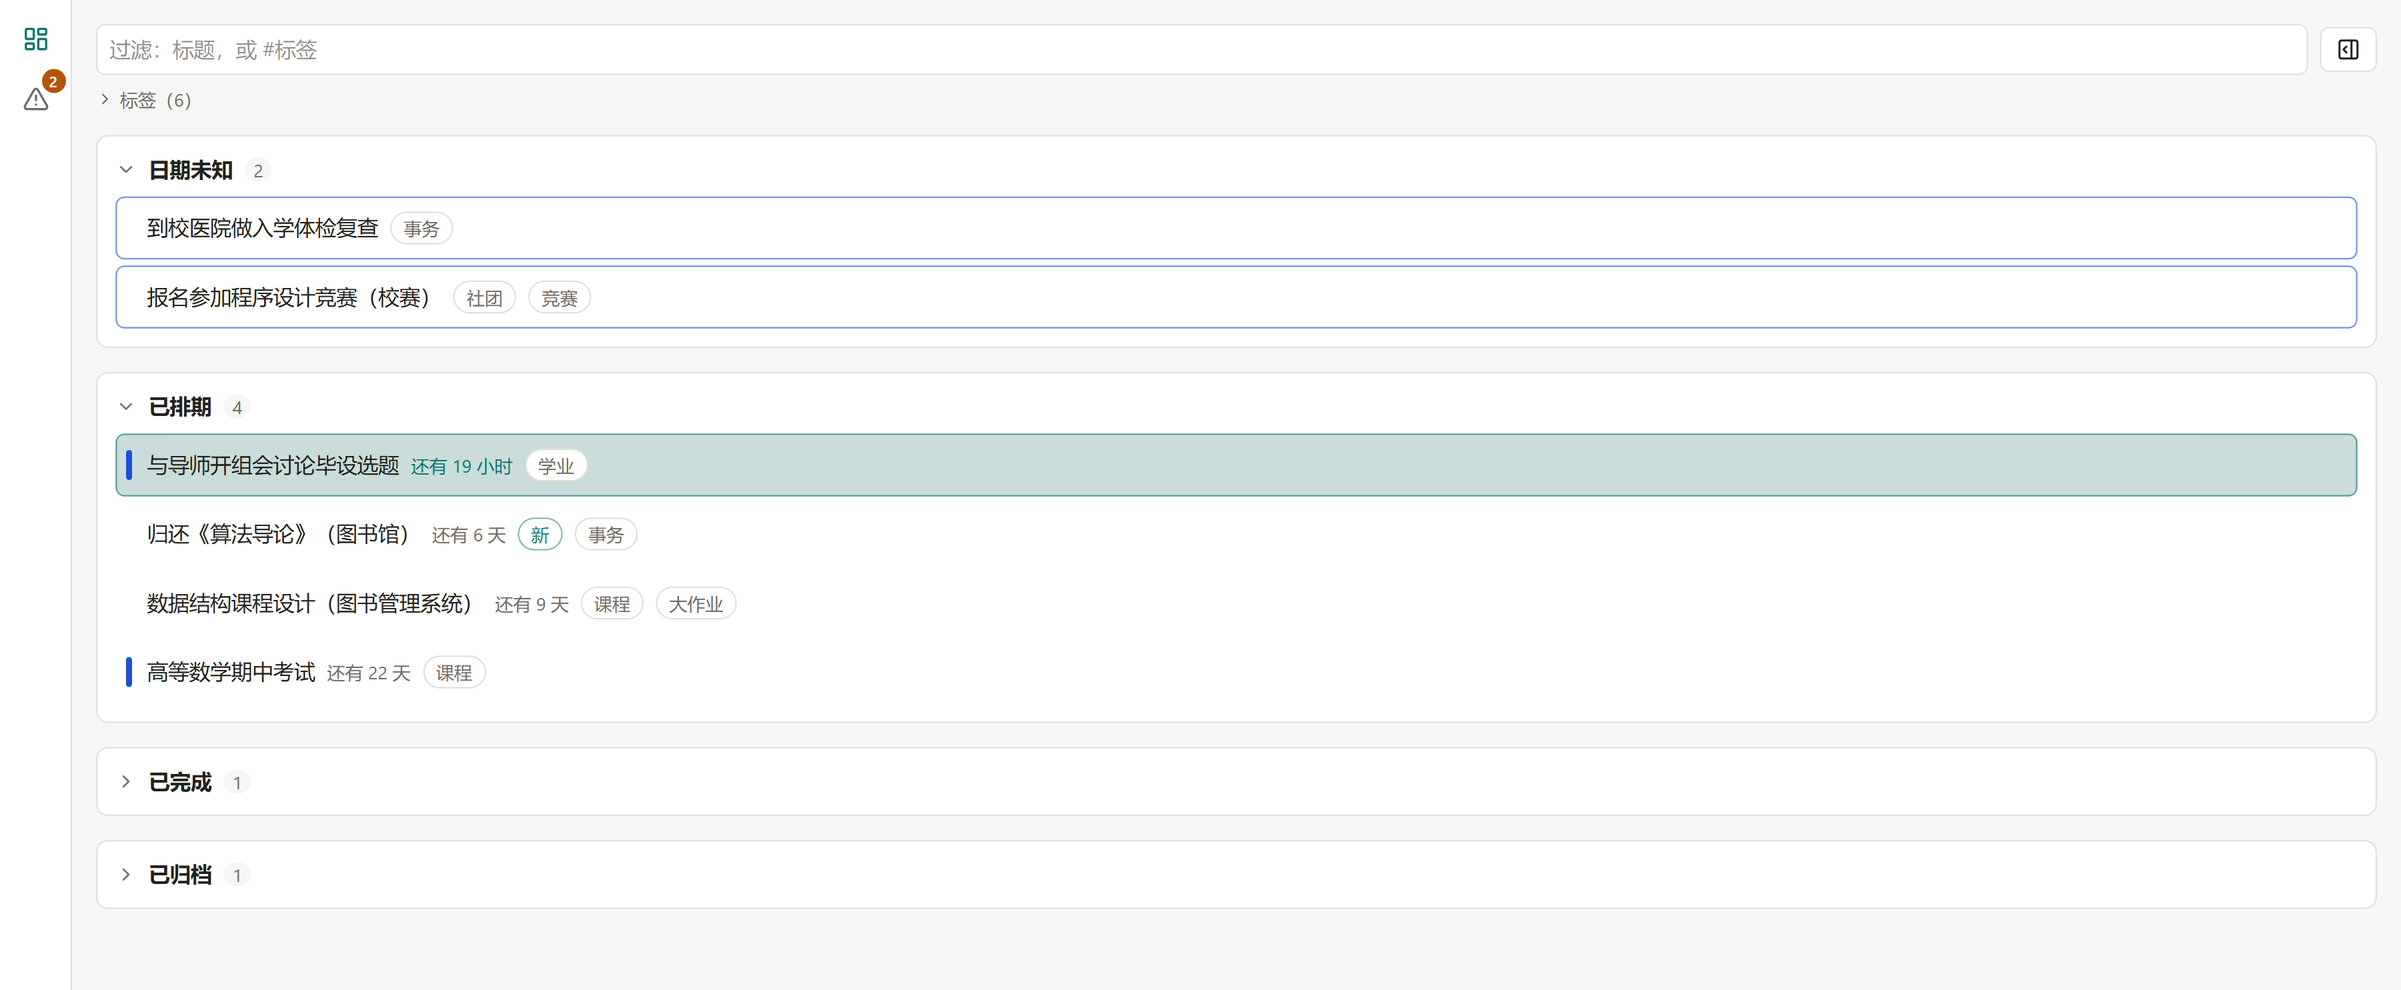
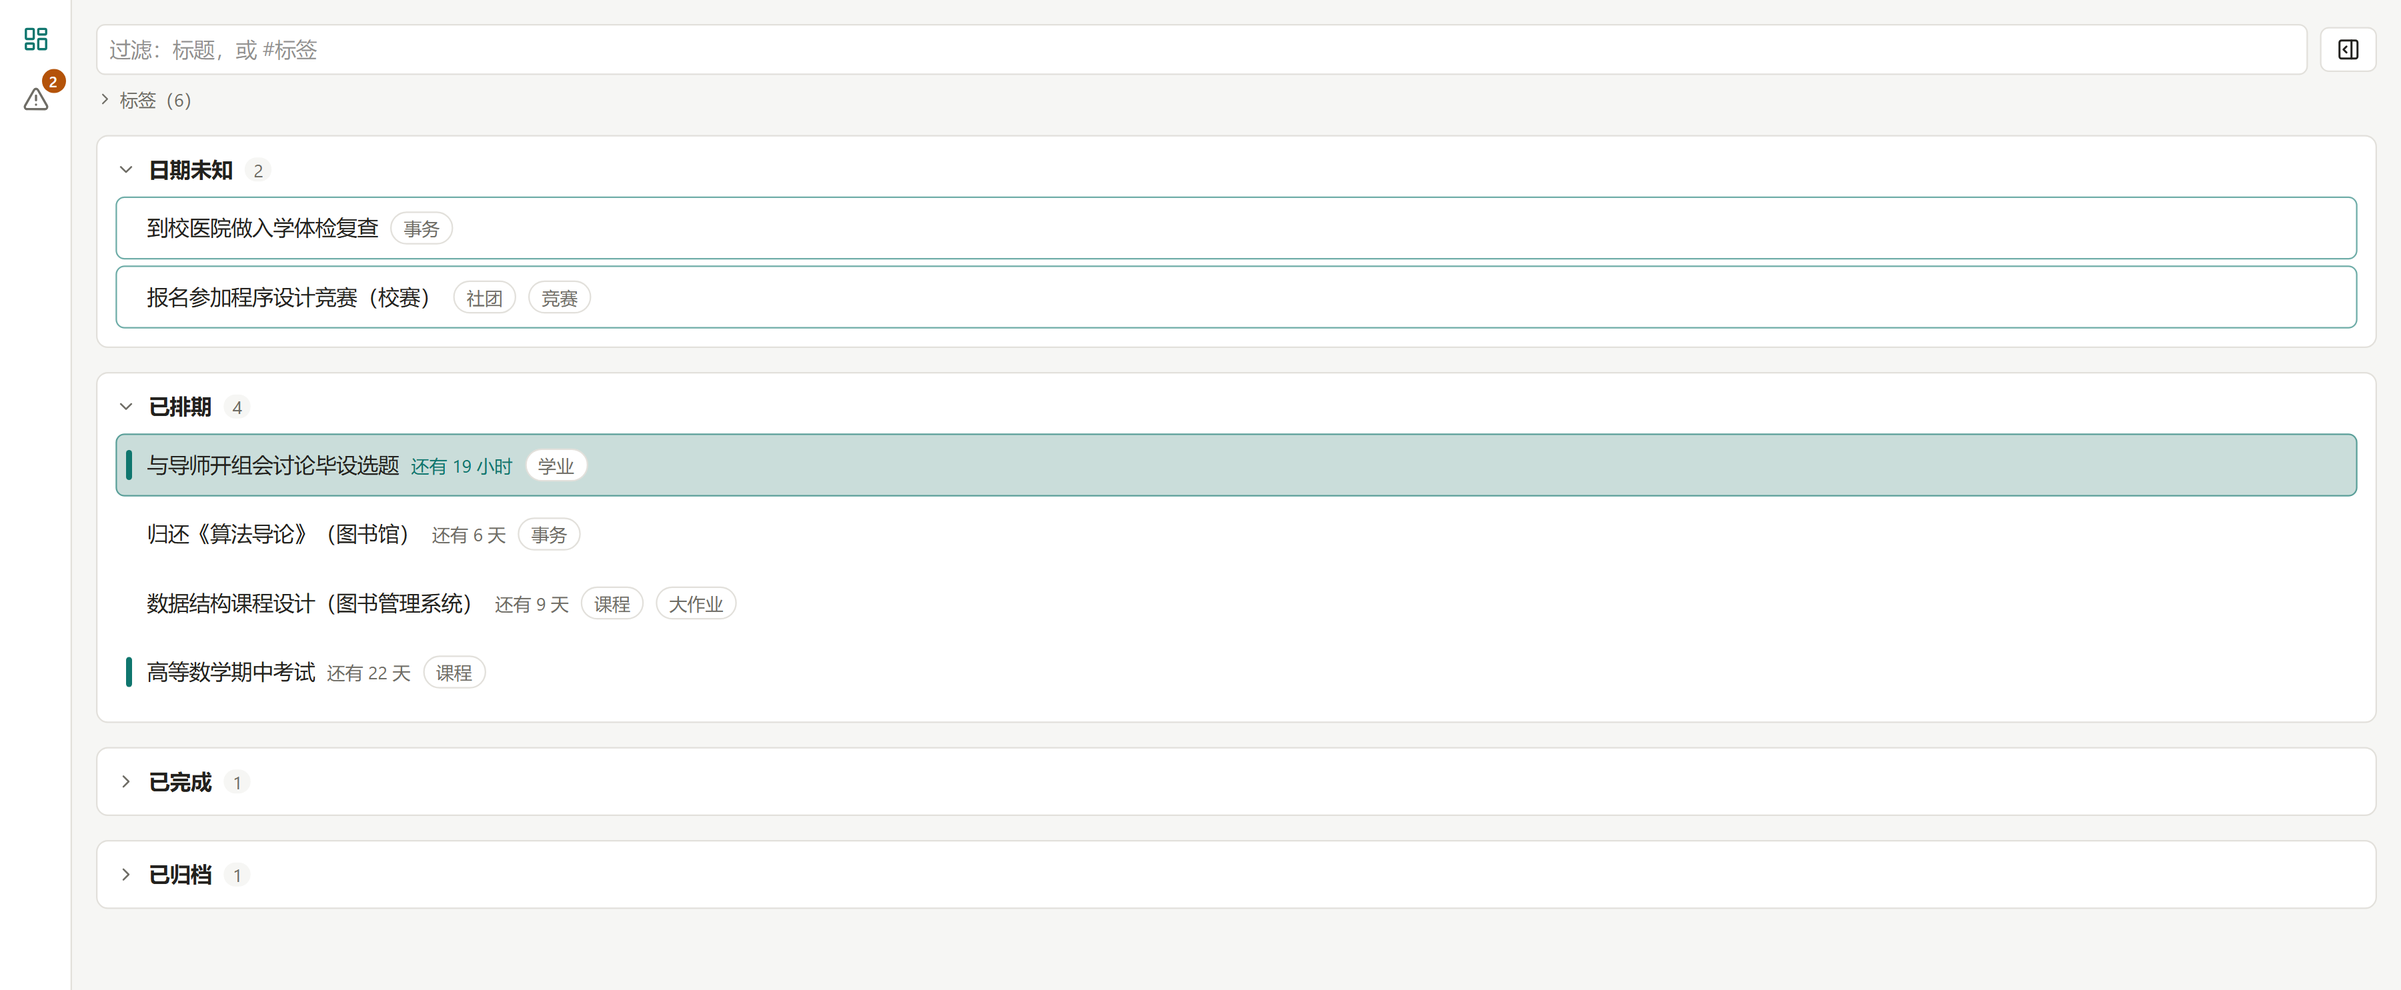
fix: 日期未知框线与推断标跟随主题色 + docs: 信源开发指南（SOURCE-GUIDE）/ docs 身份说明

Changed region(s): [[0.0622, 0.2478, 0.9644, 0.2788], [0.2178, 0.5266, 0.28, 0.5576]]

diff --git a/apps/web/src/components/Board.tsx b/apps/web/src/components/Board.tsx
@@ -108,7 +108,8 @@ function Row({
   // 已完成淡出（同款立方曲线）——锚定完成时刻（completedAt）：刚完成最浓，越久淡得越快
   const doneFade =
     item.status === "done" ? doneFadeStrength(row.completedAt ?? row.updatedAt, Date.now()) : 0;
-  // 日期未知（用户 2026-09-27 二轮：不要背景，改蓝色细边框——与过期红框同手法）
+  // 日期未知（用户 2026-09-27 二轮：不要背景，改主题色细边框——与过期红框同手法；
+  // 2026-09-30 修：原固定蓝 info 不跟色板，改 accent）
   const isUndated = item.status === "todo" && dueText === null;
   /** 行背景色：待办临近渐强 / 已完成淡出——全部从主题强调色出（跟色板走）；
    *  封顶同档（TINT_CAP_PERCENT）——「刚完成最亮」由此成立（走查修订 2026-09-30）。 */
@@ -128,7 +129,7 @@ function Row({
       className={cn(
         "group relative cursor-pointer overflow-hidden rounded-md border border-transparent py-2 pl-5 pr-3 hover:bg-canvas",
         row.overdue && "bg-danger-soft/40", // 逾期轻提示：淡红底（用户 2026-09-27：去框留底）
-        isUndated ? "border-info/60" : near ? "border-accent/60" : "",
+        isUndated || near ? "border-accent/60" : "", // 均在主题强调色系（跟色板走）
         flash && "row-flash",
         active && "bg-canvas ring-1 ring-accent",
       )}
@@ -141,11 +142,12 @@ function Row({
       }
       onClick={onToggle}
     >
-      {/* 左缘状态条（用户 2026-09-27 定；D-89 修订）：仅保留推断蓝条（存疑琥珀条随存疑段退场）。
+      {/* 左缘状态条（用户 2026-09-27 定；D-89 修订）：仅保留推断条（存疑琥珀条随存疑段退场）；
+          2026-09-30 修：固定蓝 info → 主题色 accent（跟色板走）。
           固定高度钉在标题行——不随展开体拉伸（否则展开行的条会巨长）。 */}
       {row.dueDateInferred && dueNote !== null && (
         <span
-          className="absolute left-1.5 top-2.5 h-5 w-1 rounded-full bg-info"
+          className="absolute left-1.5 top-2.5 h-5 w-1 rounded-full bg-accent"
           title={`推断：${dueText ?? ""} · 依据：${dueNote}`}
         />
       )}

diff --git a/apps/web/src/index.css b/apps/web/src/index.css
@@ -18,7 +18,6 @@
   --accent: #0f766e;
   --danger: #b91c1c;
   --warn: #b45309;
-  --info: #1d4ed8;
   --font-app: "Segoe UI", system-ui, -apple-system, "PingFang SC", "Microsoft YaHei", sans-serif;
 }
 
@@ -31,7 +30,6 @@
   --accent: #2dd4bf;
   --danger: #f87171;
   --warn: #fbbf24;
-  --info: #93c5fd;
 }
 
 /* 主题色板（05§五 外观设置）：亮暗各给一档，保证暗底上可读 */
@@ -93,7 +91,6 @@
   --color-danger-soft: color-mix(in oklab, var(--danger) 11%, var(--surface));
   --color-warn: var(--warn);
   --color-warn-soft: color-mix(in oklab, var(--warn) 15%, var(--surface));
-  --color-info: var(--info);
   --font-sans: var(--font-app);
 }
 

diff --git a/apps/web/src/components/board/ItemBody.tsx b/apps/web/src/components/board/ItemBody.tsx
@@ -101,7 +101,7 @@ export function ItemBody({ id, onChanged }: { id: string; onChanged: () => void 
                   点开/收起说明文字（样式同引文块）。哨兵键带 @ 前缀——不与自由元素 label 撞键 */}
               {dueNote !== null && (
                 <button
-                  className="cursor-pointer text-xs text-info hover:underline"
+                  className="cursor-pointer text-xs text-accent hover:underline"
                   onClick={() => toggleQuotes(DDL_NOTE_KEY)}
                 >
                   {" "}

diff --git a/SOURCE-GUIDE.md b/SOURCE-GUIDE.md
@@ -1,0 +1,178 @@
+# 开发一个信源（Source）
+
+> 从零开始：30 分钟内给 Summarizing 接上你自己的消息来源。
+> 写完之后，这个来源的消息会和群机器人一样自动进站、消化成事项——不需要改任何 core 代码。
+
+## 信源是什么
+
+Summarizing 是一条流水线，信源是它的入口：
+
+```
+你的来源（邮件 / RSS / 日历 / 任意 IM / 任何有消息的东西 …）
+        │
+   ┌────▼─────────┐
+   │  信源适配器    │   ← 你写的部分：收消息、解释协议、打包、投递
+   └────┬─────────┘
+        │ ctx.ingest(批次)
+        ▼
+   原文档案 → AI 消化 → 事项看板 / 存疑库
+```
+
+信源 = `apps/server/src/sources/` 下的一个目录，实现 `SourceAdapter` 接口。
+core 不认识你的协议，**甚至不知道有哪些信源**——你解释协议、你自己打包、你自己管设置；
+core 只提供手段（`SourceContext`，下文的「八件套」）和场地（你可以挂自己的 HTTP 路由）。
+
+如果你熟悉 Home Assistant 的 integration 或 Obsidian 的 plugin，信源是同一类东西——但更小：
+没有 manifest、没有运行时加载、没有沙箱（D-88 的「明确不要」清单）。
+
+## 开始之前
+
+- Node.js ≥ 22；仓库 clone 后 `npm install`、`npm run dev` 能跑通；
+- 会一点 TypeScript 就够——不需要读 core 源码；
+- 契约全文在 `apps/server/src/sources/types.ts`；
+  引用实现（webhook + 缓冲打包 + 白名单 + 设置）在 `apps/server/src/sources/nc/`。
+
+## 10 分钟：你的第一个信源
+
+**第 1 步 · 建目录写适配器** — `apps/server/src/sources/mysrc/index.ts`：
+
+```ts
+import { z } from "zod";
+import type { FastifyInstance } from "fastify";
+import type { SettingField, SourceAdapter, SourceContext } from "../types";
+
+/** 我的源：一句话说明它收什么、怎么收。 */
+export function makeMysrcAdapter(): SourceAdapter {
+  return {
+    name: "mysrc",
+
+    register(ctx: SourceContext, app: FastifyInstance): void {
+      // 挂自己的路由（/api/sources/mysrc/...），或改用 ctx.setInterval 起轮询
+      app.post("/api/sources/mysrc/event", async (req, reply) => {
+        const body = z.object({ text: z.string().min(1) }).parse(req.body);
+        // 单发源拿到即投；连发源先自己缓冲 + 去抖封批（见「打包」一节）
+        const result = ctx.ingest({
+          content: body.text,
+          sourceType: "mysrc",
+          sourceIdentity: { sourceLabel: "我的源" }, // 保留键 sourceLabel 非空；其余键自由
+          eventTime: null, // 源自带时刻就填（本地墙钟），没有填 null
+        });
+        if (!result.ok) ctx.log.warn(`投递失败：${result.reason}`); // 感知落地，失败自决重试/丢弃
+        return reply.code(202).send();
+      });
+    },
+
+    settings(): SettingField[] {
+      return [{ key: "endpoint", type: "text", label: "拉取地址", default: "https://…" }];
+    },
+  };
+}
+```
+
+**第 2 步 · 注册表加一行** — `apps/server/src/sources/registry.ts`：
+
+```ts
+const ADAPTERS: SourceAdapter[] = [makeNcAdapter(), makeMysrcAdapter()];
+```
+
+**第 3 步 · 跑起来验证**：
+
+```bash
+npm run dev
+curl -X POST http://localhost:3001/api/sources/mysrc/event \
+  -H "content-type: application/json" -d '{"text":"10月8日前交数据结构作业"}'
+```
+
+打开看板：几秒到几十秒后，这条消息会被消化成一条事项；点开事项的「证据」能看到你刚投的原文。
+
+> 消化这一步要跑 AI——第一次使用别忘了在 `.env` 里配好 OpenAI 兼容接入（见 README 的「上手」）。
+
+## 你拥有的手段：ctx 八件套
+
+`register(ctx, app)` 里的 `ctx` 是 core 给你的全部手段：
+
+| 手段 | 用途 |
+| --- | --- |
+| `ctx.name` | 你的源名（日志前缀、设置命名空间、错误归属共用） |
+| `ctx.log.debug / info / warn / error` | 日志口——core 统一加 `[source:<名>]` 前缀，便于过滤 |
+| `ctx.ingest(batch)` | 投递口（下一节展开）；**有返回值**，失败不抛 |
+| `ctx.getSetting / ctx.setSetting` | 读写本源的设置（命名空间隔离，core 不解释内容） |
+| `ctx.onCleanup(fn)` | 清理注册表：定时器 / 监听器 / socket 都登记，关闭时按「后注册先撤销」逐项清理 |
+| `ctx.setInterval(fn, ms)` | 定时器助手（自动登记进清理表，不用自己 clearInterval） |
+| `ctx.reportError(err, { fatal? })` | 错误出口：报给 core 记入信源状态（`GET /api/sources` 的 `state / lastError`） |
+
+⚠ 一条红线：**ctx 里没有 db**。信源不摸数据库——收进来的东西只能走 `ctx.ingest` 这一条管线。
+
+## 投递：ctx.ingest 的批次长什么样
+
+```ts
+const result = ctx.ingest({
+  content: "10月8日前交数据结构作业",          // 纯文本原文——先在 raw_inputs 落档，永不丢
+  sourceType: "mysrc",                        // = 你的源名（设置命名空间 / 路由前缀 / 排障标记共用）
+  sourceIdentity: { sourceLabel: "课程群" },  // 弹性字典：必带 sourceLabel（给人看的来源名），其余键自由
+  eventTime: null,                            // 源自带时刻就填（比"到达时间"真实，相对日期按它锚定）；没有填 null
+  // raw: { … },                              // 可选：原始载荷留底（归档用，agent0/前端不消费）
+});
+if (!result.ok) {
+  ctx.log.warn(`投递失败：${result.reason}`);   // 失败时别记去重 id、别清缓冲——留给下轮重试
+}
+```
+
+`sourceIdentity` 是**弹性字典**：core 只要求 `sourceLabel` 非空，其他键随你填——邮件填发件地址、
+网页填站点名、群聊填群号/发信人。你填的结构会随提示词交给 AI——**它就是 AI 判断来源权威性的眼睛**。
+
+## 需要更多能力时
+
+**连发型来源**（多条消息合并成一批，比如群里一条通知被拆成好几段）：
+在适配器内做内存缓冲 + 去抖封批（组内静默够久 → 合并投递），窗长存设置里。
+把封批决策写成纯函数方便测试——照抄 `sources/nc/index.ts` 的 `dueGroups` / `assembleBatch`。
+
+**异步启动与收尾**：要先连外部服务才能上线 → 实现 `start?(): Promise<void>`
+（可异步、可失败：失败只标记本信源 error，不拖垮别的信源）；有自己的运行态要清 → 实现 `stop?()`。
+SIGINT 不归你管：core 统一收信号 → `app.close()` → 依次调各源 `stop()`。
+
+**设置项**：实现 `settings?()` 声明纯数据（六型：`text / number / boolean / select / record / secret`），
+core 落库后，**设置界面自动渲染出表单**——前端不知道你叫什么，表单完全按声明生成：
+
+```ts
+settings(): SettingField[] {
+  return [
+    { key: "endpoint", type: "text", label: "拉取地址", default: "https://…" },
+    { key: "enabled", type: "boolean", label: "启用" },
+    { key: "mode", type: "select", label: "模式", options: ["a", "b"] },
+  ];
+}
+```
+
+用户在设置界面把某个输入框清空 = `DELETE` 这个键（回「未设置」）——你 `getSetting` 兜默认值的逻辑会被直接触发。
+
+## 错误与边界约定
+
+- **`ctx.ingest` 不抛**——判返回值 `.ok`；失败时保留现场（别记去重 id、别清缓冲），下轮重试；
+- **错误报 `ctx.reportError`**——不要抛出去污染主进程（无沙箱架构）；
+- **白名单类过滤 fail-closed**——未配置 = 全不收（宁可漏，不可多收）；
+- **入口快收**——webhook 一律快速 2xx（`nc` 用 204），校验不过静默丢，不阻塞推送方；
+- **重推幂等自己做**——core 不替你去重（`nc` 用 message_id 环形集合）。
+
+## 测试你的信源
+
+单测参照 `apps/server/src/test/nc.test.ts`（覆盖三类：纯函数 / webhook 快收 / 封批全链路）：
+
+- 两步装配：`makeApp(...)` + `registerSources(app, deps, [adapter])`，用 `app.inject` 打你的路由；
+- 封批触发用**只假 `setInterval` / `clearInterval` 的假时钟**
+  （`vi.useFakeTimers({ toFake: ["setInterval", "clearInterval"] })`——全量假时钟会让 `app.inject` 挂死），
+  且必须在 `registerSources` **之前**起假时钟，否则接管不到你的定时器；
+- 断真实结果：`repo.listRawInputsByState(db, "digested")` 里出现你的批次。
+
+全链路手测：真实事件 → 入口 2xx → `raw_inputs` 落档（pending → digested）→ 看板出事项 → 点开溯源到本批次原文。
+
+## 提交你的信源
+
+1. 目录 `apps/server/src/sources/<源名>/` + 注册表一行；
+2. 设置项声明（如有）+ 对应的 `getSetting` 兜底逻辑；
+3. 测试三类；`npm run check` 全绿；
+4. 提 PR。
+
+---
+
+<sub>参考文件 · 契约 `apps/server/src/sources/types.ts` · 引用实现 `apps/server/src/sources/nc/` · 测试 `apps/server/src/test/nc.test.ts`</sub>

diff --git a/docs/05-UI重搓.md b/docs/05-UI重搓.md
@@ -62,11 +62,11 @@
 - **引文旁标来源（D-89 选 B）**：每条引文旁显示所属批次的 `sourceLabel` 小字（灰）；hover = `sourceIdentityLabel` 全串（含 groupId/sender 等）。数据走详情已有的 fragments→rawInputs，零新查询。
 - **操作按钮**：标完成 / **恢复待办**（D-82：误标可逆，对称小动作）/ ~~解除存疑~~（D-89 随段退场）/ **归档**（D-83 最小归档：进归档段，恢复走恢复待办）——按钮集随状态显隐，与行快捷按钮一致。
 - **行快捷按钮（D-83）**：行悬停显形——todo 行 = 勾 + 归档；done 行 = 归档 + 恢复待办；archived 行 = 撤回归档；点击后收起展开体并刷新。
-- **左缘状态条（用户 2026-09-27 定稿；D-89 修订）**：~~存疑琥珀条、推断蓝条同位叠放~~ → 仅存**推断蓝条**（存疑随段退场）；悬停给全文；右缘只留快捷按钮。
+- **左缘状态条（用户 2026-09-27 定稿；D-89 修订）**：~~存疑琥珀条、推断蓝条同位叠放~~ → 仅存**推断主题色条**（accent，跟色板走；2026-09-30 修：原固定蓝 info 不跟色板，token 已删）；悬停给全文；右缘只留快捷按钮。
 - **已完成淡出（二轮；D-89 调参 → 走查修订② 2026-09-30）**：改用主题强调色、同款立方曲线（5 天窗口**封顶 40%** = 待办渐强同档最大——30% 时 11h 内的 todo 比刚完成还亮，与「刚完成最亮」矛盾；锚定**完成时刻**而非最后活动时刻）。
 - **已完成段排序（用户 2026-09-27 三批）**：按完成时刻倒序，最新完成在最上（与淡出梯度同向）。
 - **归档撤回（用户 2026-09-27 三批）**：已归档行的「撤回归档」只撤归档状态——若归档前已完成，撤回后回到**已完成段**（不强制回待办）；归档段按归档时刻倒序。
-- **日期未知（二轮修订：不要底色）**：todo 且无日期且无存疑的行挂**蓝色细边框**（border-info/60，与过期红框同手法）。
+- **日期未知（二轮修订：不要底色）**：todo 且无日期且无存疑的行挂**主题色细边框**（border-accent/60，与过期红框同手法；2026-09-30 修：原 border-info/60 不跟色板）。
 - **深链定位**：从对话事项 chips 进入 → 自动展开该行、若在折叠段则先展开段、滚到相关元素并短促高亮。
 
 ## 四、对话面板（投递条已砍）

diff --git a/README.md b/README.md
@@ -15,6 +15,7 @@
   <a href="#上手"><strong>上手</strong></a> &nbsp;·&nbsp;
   <a href="#界面一览"><strong>界面一览</strong></a> &nbsp;·&nbsp;
   <a href="#支持什么"><strong>支持什么</strong></a> &nbsp;·&nbsp;
+  <a href="SOURCE-GUIDE.md"><strong>开发信源</strong></a> &nbsp;·&nbsp;
   <a href="#设计文档"><strong>设计文档</strong></a> &nbsp;·&nbsp;
   <a href="LICENSE"><strong>AGPL-3.0</strong></a>
 </p>
@@ -44,7 +45,7 @@
 - **证据链**：事项的每个元素都能点开查来源——逐字引文、来源身份、原始批次。
 - **存疑信息库**：拿不准的先存进库里，之后可以合并、丢弃，也可以让 AI 定期复核。不确定就不猜。
 - **修改留痕**：每次改动都追加一份完整快照，历史随时可查。
-- **信源可扩展**：新的消息来源按统一契约接入；信源自己声明设置项，界面自动渲染表单。
+- **信源可扩展**：新的消息来源按统一契约接入（[开发信源 →](SOURCE-GUIDE.md)）；信源自己声明设置项，界面自动渲染表单。
 - **单机自托管**：SQLite 单文件，数据全在本地；AI 走 OpenAI 兼容接口，可接本地模型。
 - **深色模式**，手机也能用。
 
@@ -128,7 +129,7 @@ scripts/           db:reset / seed:demo 等运维脚本
 
 ## 设计文档
 
-这个项目的全部重要决定都落纸为文档（中文），与代码同步演进：
+`docs/` 不是面向读者的文档——它是这个项目与 AI 协作者一起工作时的「记忆」：约束、决策、验收都留档，与代码同步演进（带着编号和修订批注，是正常的）：
 
 | 文档 | 内容 |
 | --- | --- |
@@ -137,7 +138,7 @@ scripts/           db:reset / seed:demo 等运维脚本
 | `docs/02-决策台账.md` | 全部决策编号（D-xx）与延后项（L-xx） |
 | `docs/04-验收.md` | 验收清单与真实走查记录 |
 | `docs/05-UI重搓.md` | UI 定稿（布局 / 看板 / 对话 / 设置） |
-| `docs/07-接新源检查单.md` | 信源开发指南（接一个信源的全流程） |
+| `docs/07-接新源检查单.md` | 信源的内部检查单（面向 core 维护者） |
 | `docs/08-nc对接指南.md` | 群机器人信源对接操作手册 |
 
 本项目定位单机自用：多用户、云同步、原生移动 App 不在当前范围内。

diff --git a/docs/README.md b/docs/README.md
@@ -1,0 +1,11 @@
+# docs · 本项目 vibe 的记忆
+
+这里的文档**不是**给读者看的文档站——它们是这个项目与 AI 协作者长期协作沉淀下来的「记忆」：
+约束（数据契约、规格）、决策（台账）、过程（验收与开放问题）。
+
+带着编号、修订批注、过程感——是正常的：它们是工作记录，不是成稿。
+
+- 想了解项目、上手使用 → 根目录 [README](../README.md)
+- 想开发一个信源（消息来源适配器）→ 根目录 [SOURCE-GUIDE.md](../SOURCE-GUIDE.md)
+- 想动 core 代码 → 先读 [`00-数据契约.md`](00-数据契约.md)（数据层权威）
+  与 [`01-规格.md`](01-规格.md)（行为层权威），它们定义了什么不能随便动
